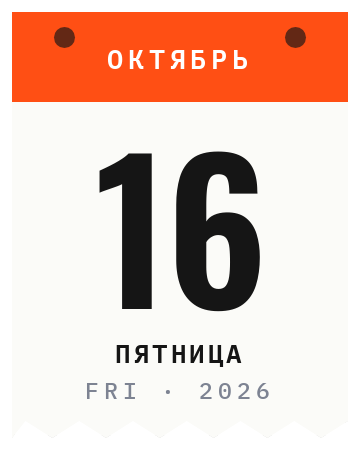
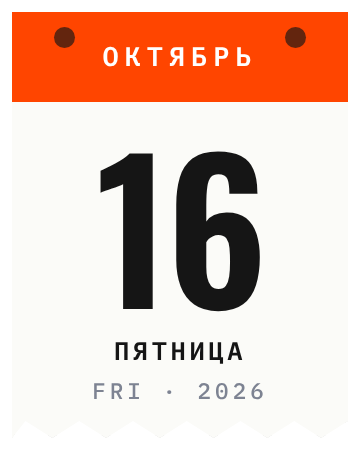
Use a cream card and a red-orange accent for the Norilsk profile
The profile card and the link card below share #F9EED2, set at the top
of the profile CSS, and the accent becomes #FF4500 in the CSS and in
the calendar images. The link card gets explicit colours, so it also
reads in dark mode.

Claude-Session: https://claude.ai/code/session_01PrTkeyYQ8Ch1dvbpYVQb4p

diff --git a/luvlinks-cassette/norilsk-profile/base.css b/luvlinks-cassette/norilsk-profile/base.css
@@ -1,9 +1,10 @@
 /* ═══ 프로필 카드 · 노릴스크 ═══
    편집 → 프로필 모양은 「글래스」로 두세요.
    왼쪽: 노릴스크 오늘 날짜(노릴스크 자정이 지나면 저절로 바뀌어요) · 오른쪽 위: 라디오 · 그 아래: 소개(오른쪽 정렬) · 오른쪽 아래: 프로필 사진.
-   카드 바탕 색은 편집 → 프로필의 「포인트 색 (글래스 · 인스타 카드)」을 따라가요(고른 색의 연한 색).
    이름 · 핸들 · 직함 · 태그 · 머리 사진 · 공유 버튼은 이 카드에선 안 보여요. */
-.profile .p-glass{--nr-ink:#151515;--nr-ac:#ff4f14;--nr-bg:#e9ecf3;--nr-mu:#7d8392;display:grid;grid-template-columns:min(34%,124px) minmax(0,1fr) auto;grid-template-rows:auto minmax(0,1fr);grid-template-areas:"d r r" "d b p";gap:10px 16px;padding:14px 16px;border:0;border-radius:0;background:var(--pc-soft,var(--nr-bg));color:var(--nr-ink);word-break:keep-all;box-shadow:0 10px 26px #0000001c,0 1px 2px #00000014;-webkit-backdrop-filter:none;backdrop-filter:none;overflow:hidden}
+/* ✏ 색은 여기서: --nr-bg 프로필 카드 · 아래 링크 카드 바탕 / --nr-ac 포인트 색 */
+body{--nr-bg:#F9EED2;--nr-ac:#FF4500}
+.profile .p-glass{--nr-ink:#151515;--nr-mu:#8a8170;display:grid;grid-template-columns:min(34%,124px) minmax(0,1fr) auto;grid-template-rows:auto minmax(0,1fr);grid-template-areas:"d r r" "d b p";gap:10px 16px;padding:14px 16px;border:0;border-radius:0;background:var(--nr-bg);color:var(--nr-ink);word-break:keep-all;box-shadow:0 10px 26px #0000001c,0 1px 2px #00000014;-webkit-backdrop-filter:none;backdrop-filter:none;overflow:hidden}
 /* 가로로 넓게: 페이지 폭(440px)보다 넓게, 폰에선 화면 폭에 맞춰요 */
 .profile{width:min(calc(100vw - 32px),600px);align-self:center}
 .profile .pcard.p-glass{width:100%;max-width:none;zoom:1}
@@ -17,3 +18,9 @@
 .profile .p-glass .pbio{grid-area:b;align-self:center;margin:0;text-align:right;color:var(--nr-ink);opacity:1}
 .profile .p-glass .pav{grid-area:p;align-self:center;margin:0}
 .profile .p-glass.has-cover{padding-top:16px}.profile .p-glass.has-cover .pav{margin-top:0}
+/* 아래 링크 카드도 같은 바탕 · 열기 버튼은 포인트 색 */
+#now.now{background:var(--nr-bg);border-color:#0000;box-shadow:0 10px 26px #0000001c,0 1px 2px #00000014;-webkit-backdrop-filter:none;backdrop-filter:none;color:#151515}
+#now .badge{background:#f1e1b9;color:var(--nr-ac)}
+#now .title{color:#151515}
+#now .url{color:#6d6553}
+#now .open{background:var(--nr-ac);border-color:var(--nr-ac);color:#fff}

diff --git a/luvlinks-cassette/norilsk-profile/r2m3.css b/luvlinks-cassette/norilsk-profile/r2m3.css
@@ -4,7 +4,7 @@
 .profile .p-glass .pname::before{content:"ON AIR · «КАЛИНКА» 1860";display:block;padding-left:13px;font:600 9px/14px ui-monospace,"SF Mono",Menlo,Consolas,monospace;letter-spacing:.1em;color:var(--nr-ac);white-space:nowrap;overflow:hidden}
 .profile .p-glass>div:not([class])::before,.profile .p-glass>div:not([class])::after{position:absolute;left:0;right:0;white-space:pre;overflow:hidden}
 .profile .p-glass>div:not([class])::before{content:"Калинка, калинка, калинка моя!\A В саду ягода малинка, малинка моя!\A Ах, под сосною, под зелёною,\A Спать положите вы меня!\A Ах, сосёнушка ты зелёная,\A Не шуми же надо мной!\A Ах, красавица, душа-девица,\A Полюби же ты меня!";top:calc(18px - var(--nrk)*17px);height:136px;font-size:min(11.5px,calc(100cqi / 20));line-height:17px;font-weight:600}
-.profile .p-glass>div:not([class])::after{content:"칼린카, 칼린카, 나의 칼린카!\A 정원에 열린 산딸기, 나의 산딸기!\A 아, 푸른 소나무 아래\A 나를 눕혀 재워 주오!\A 아, 푸른 작은 소나무야,\A 내 위에서 소리 내지 말아 다오!\A 아, 아름다운 이여, 고운 아가씨여,\A 나를 사랑해 주오!";top:calc(35px - var(--nrk)*15px);height:120px;font-size:min(11px,calc(100cqi / 17));line-height:15px;font-weight:400;color:#4f5462}
+.profile .p-glass>div:not([class])::after{content:"칼린카, 칼린카, 나의 칼린카!\A 정원에 열린 산딸기, 나의 산딸기!\A 아, 푸른 소나무 아래\A 나를 눕혀 재워 주오!\A 아, 푸른 작은 소나무야,\A 내 위에서 소리 내지 말아 다오!\A 아, 아름다운 이여, 고운 아가씨여,\A 나를 사랑해 주오!";top:calc(35px - var(--nrk)*15px);height:120px;font-size:min(11px,calc(100cqi / 17));line-height:15px;font-weight:400;color:#5c5547}
 .profile .p-glass .pname::after{content:"";position:absolute;left:0;top:2px;width:9px;height:10px;background:linear-gradient(var(--nr-ac),var(--nr-ac)) 0 100%/2px 40% no-repeat,linear-gradient(var(--nr-ac),var(--nr-ac)) 3.5px 100%/2px 90% no-repeat,linear-gradient(var(--nr-ac),var(--nr-ac)) 7px 100%/2px 60% no-repeat;animation:nreq .5s ease-in-out infinite alternate}
 @keyframes nreq{to{background-size:2px 90%,2px 35%,2px 100%}}
 .profile .p-glass>div:not([class])::before,.profile .p-glass>div:not([class])::after{animation:nrk 48s steps(8) infinite,nrsA 6s infinite}

diff --git a/luvlinks-cassette/norilsk-profile/r2m2.css b/luvlinks-cassette/norilsk-profile/r2m2.css
@@ -6,7 +6,7 @@
 @keyframes nrbl{50%{opacity:.15}}
 .profile .p-glass>div:not([class])::before,.profile .p-glass>div:not([class])::after{position:absolute;left:0;right:0;white-space:pre;overflow:hidden}
 .profile .p-glass>div:not([class])::before{content:"Калинка, калинка, калинка моя!\A В саду ягода малинка, малинка моя!\A Ах, под сосною, под зелёною,\A Спать положите вы меня!\A Ах, сосёнушка ты зелёная,\A Не шуми же надо мной!\A Ах, красавица, душа-девица,\A Полюби же ты меня!";top:calc(18px - var(--nrk)*17px);height:136px;font-size:min(11.5px,calc(100cqi / 20));line-height:17px;font-weight:600}
-.profile .p-glass>div:not([class])::after{content:"칼린카, 칼린카, 나의 칼린카!\A 정원에 열린 산딸기, 나의 산딸기!\A 아, 푸른 소나무 아래\A 나를 눕혀 재워 주오!\A 아, 푸른 작은 소나무야,\A 내 위에서 소리 내지 말아 다오!\A 아, 아름다운 이여, 고운 아가씨여,\A 나를 사랑해 주오!";top:calc(35px - var(--nrk)*15px);height:120px;font-size:min(11px,calc(100cqi / 17));line-height:15px;font-weight:400;color:#4f5462}
+.profile .p-glass>div:not([class])::after{content:"칼린카, 칼린카, 나의 칼린카!\A 정원에 열린 산딸기, 나의 산딸기!\A 아, 푸른 소나무 아래\A 나를 눕혀 재워 주오!\A 아, 푸른 작은 소나무야,\A 내 위에서 소리 내지 말아 다오!\A 아, 아름다운 이여, 고운 아가씨여,\A 나를 사랑해 주오!";top:calc(35px - var(--nrk)*15px);height:120px;font-size:min(11px,calc(100cqi / 17));line-height:15px;font-weight:400;color:#5c5547}
 .profile .p-glass>div:not([class])::before{clip-path:inset(calc(var(--nrk)*17px) 0 calc((7 - var(--nrk))*17px) 0);color:#0000;background:linear-gradient(90deg,var(--nr-ac) 50%,#15151561 50%) var(--nrv) 0/200% 100%;-webkit-background-clip:text;background-clip:text;animation:nrk 48s steps(8) infinite,nrkA 6s infinite}
 .profile .p-glass>div:not([class])::after{clip-path:inset(calc(var(--nrk)*15px) 0 calc((7 - var(--nrk))*15px) 0);animation:nrk 48s steps(8) infinite,nrkB 6s infinite}
 @keyframes nrk{to{--nrk:8}}

diff --git a/luvlinks-cassette/norilsk-profile/r1m3.css b/luvlinks-cassette/norilsk-profile/r1m3.css
@@ -4,7 +4,7 @@
 .profile .p-glass .pname::before{content:"ON AIR · NOW PLAYING";display:block;padding-left:13px;font:600 9px/14px ui-monospace,"SF Mono",Menlo,Consolas,monospace;letter-spacing:.1em;color:var(--nr-ac);white-space:nowrap;overflow:hidden}
 .profile .p-glass>div:not([class])::before,.profile .p-glass>div:not([class])::after{position:absolute;left:0;right:0;white-space:pre;overflow:hidden}
 .profile .p-glass>div:not([class])::before{content:"Кино — «Кукушка»\A Земфира — «Хочешь?»\A Сплин — «Выхода нет»\A ДДТ — «Что такое осень»\A Кино — «Группа крови»";top:calc(18px - var(--nrk)*17px);height:85px;font-size:min(11.5px,calc(100cqi / 20));line-height:17px;font-weight:600}
-.profile .p-glass>div:not([class])::after{content:"북위 69도, 첫 곡 보내 드려요.\A 창밖은 하얀 눈, 방 안은 따뜻하게.\A 눈보라가 그칠 때까지 계속 틀어요.\A 짧은 가을이 지나가는 노릴스크예요.\A 다음 곡도 이어서 들려 드릴게요.";top:calc(35px - var(--nrk)*15px);height:75px;font-size:min(11px,calc(100cqi / 17));line-height:15px;font-weight:400;color:#4f5462}
+.profile .p-glass>div:not([class])::after{content:"북위 69도, 첫 곡 보내 드려요.\A 창밖은 하얀 눈, 방 안은 따뜻하게.\A 눈보라가 그칠 때까지 계속 틀어요.\A 짧은 가을이 지나가는 노릴스크예요.\A 다음 곡도 이어서 들려 드릴게요.";top:calc(35px - var(--nrk)*15px);height:75px;font-size:min(11px,calc(100cqi / 17));line-height:15px;font-weight:400;color:#5c5547}
 .profile .p-glass .pname::after{content:"";position:absolute;left:0;top:2px;width:9px;height:10px;background:linear-gradient(var(--nr-ac),var(--nr-ac)) 0 100%/2px 40% no-repeat,linear-gradient(var(--nr-ac),var(--nr-ac)) 3.5px 100%/2px 90% no-repeat,linear-gradient(var(--nr-ac),var(--nr-ac)) 7px 100%/2px 60% no-repeat;animation:nreq .5s ease-in-out infinite alternate}
 @keyframes nreq{to{background-size:2px 90%,2px 35%,2px 100%}}
 .profile .p-glass>div:not([class])::before,.profile .p-glass>div:not([class])::after{animation:nrk 30s steps(5) infinite,nrsA 6s infinite}

diff --git a/luvlinks-cassette/norilsk-profile/r3m3.css b/luvlinks-cassette/norilsk-profile/r3m3.css
@@ -4,7 +4,7 @@
 .profile .p-glass .pname::before{content:"ON AIR · ГОВОРИТ НОРИЛЬСК";display:block;padding-left:13px;font:600 9px/14px ui-monospace,"SF Mono",Menlo,Consolas,monospace;letter-spacing:.1em;color:var(--nr-ac);white-space:nowrap;overflow:hidden}
 .profile .p-glass>div:not([class])::before,.profile .p-glass>div:not([class])::after{position:absolute;left:0;right:0;white-space:pre;overflow:hidden}
 .profile .p-glass>div:not([class])::before{content:"2021.11.30 · 극야 시작\A 2025.11.19 · 교통 속보\A 2021.12.09 · 아침 뉴스\A 2021.12.24 · 기상 특보\A 2023.01.16 · 시민 인터뷰";top:calc(18px - var(--nrk)*17px);height:85px;font-size:min(11.5px,calc(100cqi / 20));line-height:17px;font-weight:600}
-.profile .p-glass>div:not([class])::after{content:"오늘부터 해가 뜨지 않습니다.\A 눈보라로 모든 차량이 통제됩니다.\A 120명이 문화센터에서 잤습니다.\A 새해 트리가 바람에 두 동강 났습니다.\A “극야는 이틀 전에 끝났어요.”";top:calc(35px - var(--nrk)*15px);height:75px;font-size:min(11px,calc(100cqi / 17));line-height:15px;font-weight:400;color:#4f5462}
+.profile .p-glass>div:not([class])::after{content:"오늘부터 해가 뜨지 않습니다.\A 눈보라로 모든 차량이 통제됩니다.\A 120명이 문화센터에서 잤습니다.\A 새해 트리가 바람에 두 동강 났습니다.\A “극야는 이틀 전에 끝났어요.”";top:calc(35px - var(--nrk)*15px);height:75px;font-size:min(11px,calc(100cqi / 17));line-height:15px;font-weight:400;color:#5c5547}
 .profile .p-glass .pname::after{content:"";position:absolute;left:0;top:2px;width:9px;height:10px;background:linear-gradient(var(--nr-ac),var(--nr-ac)) 0 100%/2px 40% no-repeat,linear-gradient(var(--nr-ac),var(--nr-ac)) 3.5px 100%/2px 90% no-repeat,linear-gradient(var(--nr-ac),var(--nr-ac)) 7px 100%/2px 60% no-repeat;animation:nreq .5s ease-in-out infinite alternate}
 @keyframes nreq{to{background-size:2px 90%,2px 35%,2px 100%}}
 .profile .p-glass>div:not([class])::before,.profile .p-glass>div:not([class])::after{animation:nrk 30s steps(5) infinite,nrsA 6s infinite}

diff --git a/luvlinks-cassette/norilsk-profile/r2m1.css b/luvlinks-cassette/norilsk-profile/r2m1.css
@@ -6,7 +6,7 @@
 @keyframes nrbl{50%{opacity:.15}}
 .profile .p-glass>div:not([class])::before,.profile .p-glass>div:not([class])::after{position:absolute;left:0;right:0;white-space:pre;overflow:hidden}
 .profile .p-glass>div:not([class])::before{content:"Калинка, калинка, калинка моя!\A В саду ягода малинка, малинка моя!\A Ах, под сосною, под зелёною,\A Спать положите вы меня!\A Ах, сосёнушка ты зелёная,\A Не шуми же надо мной!\A Ах, красавица, душа-девица,\A Полюби же ты меня!";top:calc(18px - var(--nrk)*17px);height:136px;font-size:min(11.5px,calc(100cqi / 20));line-height:17px;font-weight:600}
-.profile .p-glass>div:not([class])::after{content:"칼린카, 칼린카, 나의 칼린카!\A 정원에 열린 산딸기, 나의 산딸기!\A 아, 푸른 소나무 아래\A 나를 눕혀 재워 주오!\A 아, 푸른 작은 소나무야,\A 내 위에서 소리 내지 말아 다오!\A 아, 아름다운 이여, 고운 아가씨여,\A 나를 사랑해 주오!";top:calc(35px - var(--nrk)*15px);height:120px;font-size:min(11px,calc(100cqi / 17));line-height:15px;font-weight:400;color:#4f5462}
+.profile .p-glass>div:not([class])::after{content:"칼린카, 칼린카, 나의 칼린카!\A 정원에 열린 산딸기, 나의 산딸기!\A 아, 푸른 소나무 아래\A 나를 눕혀 재워 주오!\A 아, 푸른 작은 소나무야,\A 내 위에서 소리 내지 말아 다오!\A 아, 아름다운 이여, 고운 아가씨여,\A 나를 사랑해 주오!";top:calc(35px - var(--nrk)*15px);height:120px;font-size:min(11px,calc(100cqi / 17));line-height:15px;font-weight:400;color:#5c5547}
 .profile .p-glass>div:not([class])::before,.profile .p-glass>div:not([class])::after{animation:nrk 48s steps(8) infinite,nrtA 6s infinite}
 .profile .p-glass>div:not([class])::before{clip-path:inset(calc(var(--nrk)*17px) var(--nrv) calc((7 - var(--nrk))*17px) 0)}
 .profile .p-glass>div:not([class])::after{clip-path:inset(calc(var(--nrk)*15px) var(--nrv) calc((7 - var(--nrk))*15px) 0);animation-name:nrk,nrtB}

diff --git a/luvlinks-cassette/norilsk-profile/r1m2.css b/luvlinks-cassette/norilsk-profile/r1m2.css
@@ -6,7 +6,7 @@
 @keyframes nrbl{50%{opacity:.15}}
 .profile .p-glass>div:not([class])::before,.profile .p-glass>div:not([class])::after{position:absolute;left:0;right:0;white-space:pre;overflow:hidden}
 .profile .p-glass>div:not([class])::before{content:"Кино — «Кукушка»\A Земфира — «Хочешь?»\A Сплин — «Выхода нет»\A ДДТ — «Что такое осень»\A Кино — «Группа крови»";top:calc(18px - var(--nrk)*17px);height:85px;font-size:min(11.5px,calc(100cqi / 20));line-height:17px;font-weight:600}
-.profile .p-glass>div:not([class])::after{content:"북위 69도, 첫 곡 보내 드려요.\A 창밖은 하얀 눈, 방 안은 따뜻하게.\A 눈보라가 그칠 때까지 계속 틀어요.\A 짧은 가을이 지나가는 노릴스크예요.\A 다음 곡도 이어서 들려 드릴게요.";top:calc(35px - var(--nrk)*15px);height:75px;font-size:min(11px,calc(100cqi / 17));line-height:15px;font-weight:400;color:#4f5462}
+.profile .p-glass>div:not([class])::after{content:"북위 69도, 첫 곡 보내 드려요.\A 창밖은 하얀 눈, 방 안은 따뜻하게.\A 눈보라가 그칠 때까지 계속 틀어요.\A 짧은 가을이 지나가는 노릴스크예요.\A 다음 곡도 이어서 들려 드릴게요.";top:calc(35px - var(--nrk)*15px);height:75px;font-size:min(11px,calc(100cqi / 17));line-height:15px;font-weight:400;color:#5c5547}
 .profile .p-glass>div:not([class])::before{clip-path:inset(calc(var(--nrk)*17px) 0 calc((4 - var(--nrk))*17px) 0);color:#0000;background:linear-gradient(90deg,var(--nr-ac) 50%,#15151561 50%) var(--nrv) 0/200% 100%;-webkit-background-clip:text;background-clip:text;animation:nrk 30s steps(5) infinite,nrkA 6s infinite}
 .profile .p-glass>div:not([class])::after{clip-path:inset(calc(var(--nrk)*15px) 0 calc((4 - var(--nrk))*15px) 0);animation:nrk 30s steps(5) infinite,nrkB 6s infinite}
 @keyframes nrk{to{--nrk:5}}

diff --git a/luvlinks-cassette/norilsk-profile/r3m2.css b/luvlinks-cassette/norilsk-profile/r3m2.css
@@ -6,7 +6,7 @@
 @keyframes nrbl{50%{opacity:.15}}
 .profile .p-glass>div:not([class])::before,.profile .p-glass>div:not([class])::after{position:absolute;left:0;right:0;white-space:pre;overflow:hidden}
 .profile .p-glass>div:not([class])::before{content:"2021.11.30 · 극야 시작\A 2025.11.19 · 교통 속보\A 2021.12.09 · 아침 뉴스\A 2021.12.24 · 기상 특보\A 2023.01.16 · 시민 인터뷰";top:calc(18px - var(--nrk)*17px);height:85px;font-size:min(11.5px,calc(100cqi / 20));line-height:17px;font-weight:600}
-.profile .p-glass>div:not([class])::after{content:"오늘부터 해가 뜨지 않습니다.\A 눈보라로 모든 차량이 통제됩니다.\A 120명이 문화센터에서 잤습니다.\A 새해 트리가 바람에 두 동강 났습니다.\A “극야는 이틀 전에 끝났어요.”";top:calc(35px - var(--nrk)*15px);height:75px;font-size:min(11px,calc(100cqi / 17));line-height:15px;font-weight:400;color:#4f5462}
+.profile .p-glass>div:not([class])::after{content:"오늘부터 해가 뜨지 않습니다.\A 눈보라로 모든 차량이 통제됩니다.\A 120명이 문화센터에서 잤습니다.\A 새해 트리가 바람에 두 동강 났습니다.\A “극야는 이틀 전에 끝났어요.”";top:calc(35px - var(--nrk)*15px);height:75px;font-size:min(11px,calc(100cqi / 17));line-height:15px;font-weight:400;color:#5c5547}
 .profile .p-glass>div:not([class])::before{clip-path:inset(calc(var(--nrk)*17px) 0 calc((4 - var(--nrk))*17px) 0);color:#0000;background:linear-gradient(90deg,var(--nr-ac) 50%,#15151561 50%) var(--nrv) 0/200% 100%;-webkit-background-clip:text;background-clip:text;animation:nrk 30s steps(5) infinite,nrkA 6s infinite}
 .profile .p-glass>div:not([class])::after{clip-path:inset(calc(var(--nrk)*15px) 0 calc((4 - var(--nrk))*15px) 0);animation:nrk 30s steps(5) infinite,nrkB 6s infinite}
 @keyframes nrk{to{--nrk:5}}

diff --git a/luvlinks-cassette/norilsk-profile/r1m1.css b/luvlinks-cassette/norilsk-profile/r1m1.css
@@ -6,7 +6,7 @@
 @keyframes nrbl{50%{opacity:.15}}
 .profile .p-glass>div:not([class])::before,.profile .p-glass>div:not([class])::after{position:absolute;left:0;right:0;white-space:pre;overflow:hidden}
 .profile .p-glass>div:not([class])::before{content:"Кино — «Кукушка»\A Земфира — «Хочешь?»\A Сплин — «Выхода нет»\A ДДТ — «Что такое осень»\A Кино — «Группа крови»";top:calc(18px - var(--nrk)*17px);height:85px;font-size:min(11.5px,calc(100cqi / 20));line-height:17px;font-weight:600}
-.profile .p-glass>div:not([class])::after{content:"북위 69도, 첫 곡 보내 드려요.\A 창밖은 하얀 눈, 방 안은 따뜻하게.\A 눈보라가 그칠 때까지 계속 틀어요.\A 짧은 가을이 지나가는 노릴스크예요.\A 다음 곡도 이어서 들려 드릴게요.";top:calc(35px - var(--nrk)*15px);height:75px;font-size:min(11px,calc(100cqi / 17));line-height:15px;font-weight:400;color:#4f5462}
+.profile .p-glass>div:not([class])::after{content:"북위 69도, 첫 곡 보내 드려요.\A 창밖은 하얀 눈, 방 안은 따뜻하게.\A 눈보라가 그칠 때까지 계속 틀어요.\A 짧은 가을이 지나가는 노릴스크예요.\A 다음 곡도 이어서 들려 드릴게요.";top:calc(35px - var(--nrk)*15px);height:75px;font-size:min(11px,calc(100cqi / 17));line-height:15px;font-weight:400;color:#5c5547}
 .profile .p-glass>div:not([class])::before,.profile .p-glass>div:not([class])::after{animation:nrk 30s steps(5) infinite,nrtA 6s infinite}
 .profile .p-glass>div:not([class])::before{clip-path:inset(calc(var(--nrk)*17px) var(--nrv) calc((4 - var(--nrk))*17px) 0)}
 .profile .p-glass>div:not([class])::after{clip-path:inset(calc(var(--nrk)*15px) var(--nrv) calc((4 - var(--nrk))*15px) 0);animation-name:nrk,nrtB}

diff --git a/luvlinks-cassette/norilsk-profile/r3m1.css b/luvlinks-cassette/norilsk-profile/r3m1.css
@@ -6,7 +6,7 @@
 @keyframes nrbl{50%{opacity:.15}}
 .profile .p-glass>div:not([class])::before,.profile .p-glass>div:not([class])::after{position:absolute;left:0;right:0;white-space:pre;overflow:hidden}
 .profile .p-glass>div:not([class])::before{content:"2021.11.30 · 극야 시작\A 2025.11.19 · 교통 속보\A 2021.12.09 · 아침 뉴스\A 2021.12.24 · 기상 특보\A 2023.01.16 · 시민 인터뷰";top:calc(18px - var(--nrk)*17px);height:85px;font-size:min(11.5px,calc(100cqi / 20));line-height:17px;font-weight:600}
-.profile .p-glass>div:not([class])::after{content:"오늘부터 해가 뜨지 않습니다.\A 눈보라로 모든 차량이 통제됩니다.\A 120명이 문화센터에서 잤습니다.\A 새해 트리가 바람에 두 동강 났습니다.\A “극야는 이틀 전에 끝났어요.”";top:calc(35px - var(--nrk)*15px);height:75px;font-size:min(11px,calc(100cqi / 17));line-height:15px;font-weight:400;color:#4f5462}
+.profile .p-glass>div:not([class])::after{content:"오늘부터 해가 뜨지 않습니다.\A 눈보라로 모든 차량이 통제됩니다.\A 120명이 문화센터에서 잤습니다.\A 새해 트리가 바람에 두 동강 났습니다.\A “극야는 이틀 전에 끝났어요.”";top:calc(35px - var(--nrk)*15px);height:75px;font-size:min(11px,calc(100cqi / 17));line-height:15px;font-weight:400;color:#5c5547}
 .profile .p-glass>div:not([class])::before,.profile .p-glass>div:not([class])::after{animation:nrk 30s steps(5) infinite,nrtA 6s infinite}
 .profile .p-glass>div:not([class])::before{clip-path:inset(calc(var(--nrk)*17px) var(--nrv) calc((4 - var(--nrk))*17px) 0)}
 .profile .p-glass>div:not([class])::after{clip-path:inset(calc(var(--nrk)*15px) var(--nrv) calc((4 - var(--nrk))*15px) 0);animation-name:nrk,nrtB}
